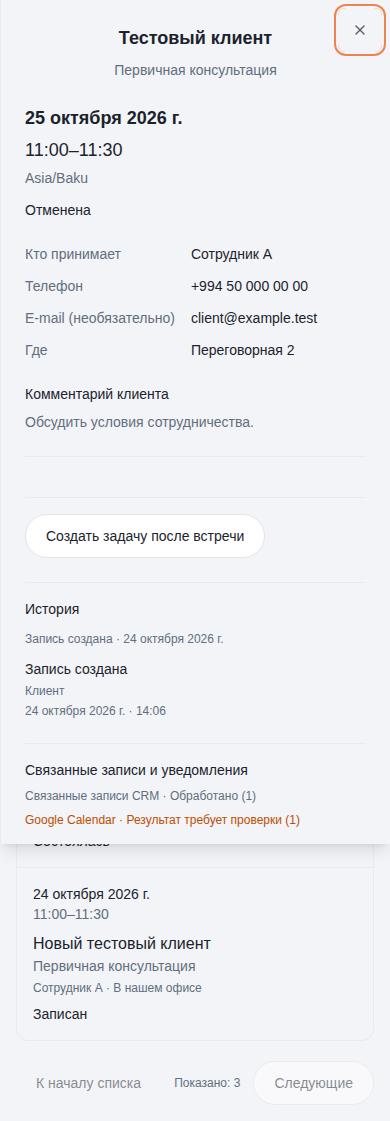
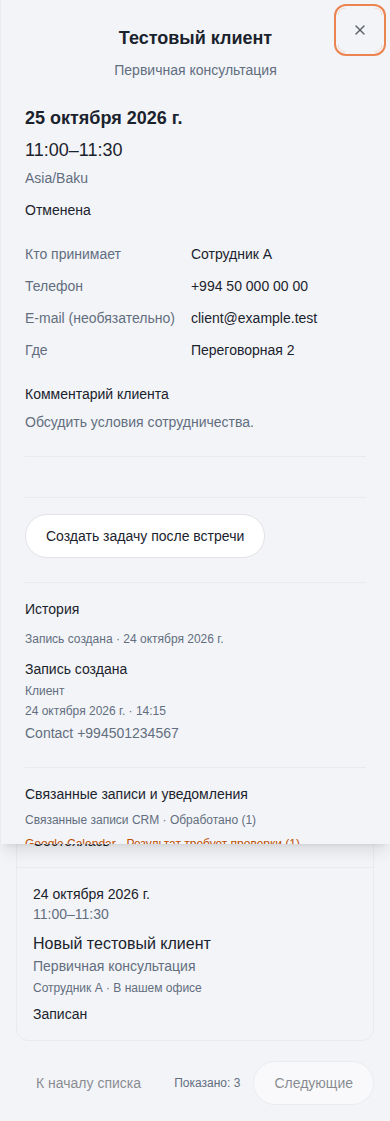
fix(booking): enforce event state and isolate replay and history access

Changed region(s): [[0.0615, 0.6244, 0.7692, 0.7493]]

diff --git a/src/__tests__/online-booking-postgres.test.ts b/src/__tests__/online-booking-postgres.test.ts
@@ -20,6 +20,7 @@
  * the deploy («Online booking database gate»), where
  * `ONLINE_BOOKING_DB_GATE=required` turns a missing URL into a failure.
  */
+import type { Prisma as GeneratedPrisma, PrismaClient } from "@prisma/client"
 import { randomUUID } from "node:crypto"
 import { spawnSync } from "node:child_process"
 import { createRequire } from "node:module"
@@ -92,16 +93,6 @@ function schemaWithoutEmbeddings(): string {
   return file
 }
 
-/** `db push` builds no CHECKs and no partial indexes; these are lifted from the migration. */
-function bookingConstraintsSql(): string {
-  const sql = readFileSync(path.join(ROOT, "prisma/migrations/20261101090000_online_booking/migration.sql"), "utf8")
-  const partial = sql.match(/CREATE UNIQUE INDEX "bookings_host_start_confirmed_key"[\s\S]*?;/)
-  if (!partial) throw new Error("partial unique index not found in the migration")
-  const checks = [...sql.matchAll(/CONSTRAINT "(bookings_\w+_check)" CHECK (\(.*\))/g)]
-  if (checks.length < 3) throw new Error("booking CHECKs not found in the migration")
-  return [partial[0], ...checks.map(([, name, body]) => `ALTER TABLE "bookings" ADD CONSTRAINT "${name}" CHECK ${body.replace(/,$/, "")};`)].join("\n")
-}
-
 function signIn(role: string, organizationId = ORG) {
   session.current = { user: { id: `user-${role}-${organizationId}`, organizationId, role, email: `${role}@example.com`, name: role } }
 }
@@ -119,8 +110,7 @@ const ALL_DAY = Object.fromEntries(["0", "1", "2", "3", "4", "5", "6"].map((day)
 const pgDescribe = scratch ? describe : describe.skip
 
 pgDescribe("online booking on a real Postgres", () => {
-  type Prisma = typeof import("@/lib/prisma").prisma
-  let prisma!: Prisma
+  let prisma!: PrismaClient
   let bypass!: typeof import("@/lib/rls-context").runWithRlsBypass
   let pageGet!: typeof import("@/app/api/v1/public/booking/[slug]/route").GET
   let pagePost!: typeof import("@/app/api/v1/public/booking/[slug]/route").POST
@@ -139,7 +129,12 @@ pgDescribe("online booking on a real Postgres", () => {
     prismaCli(["db", "execute", "--url", adminUrl!, "--stdin"], process.env, `DROP DATABASE IF EXISTS "${scratch!.name}" WITH (FORCE)`)
     prismaCli(["db", "execute", "--url", adminUrl!, "--stdin"], process.env, `CREATE DATABASE "${scratch!.name}"`)
     prismaCli(["db", "push", "--schema", schemaWithoutEmbeddings(), "--skip-generate", "--accept-data-loss"], { ...process.env, DATABASE_URL: scratch!.url })
-    prismaCli(["db", "execute", "--url", scratch!.url, "--stdin"], process.env, bookingConstraintsSql())
+    // Only in this newly created empty scratch DB: replace the booking subset
+    // with its original schema, then apply both actual forward migrations.
+    prismaCli(["db", "execute", "--url", scratch!.url, "--stdin"], process.env, `DROP TABLE IF EXISTS booking_change_notes, booking_integration_bindings, booking_secrets, booking_coordinator_grants, bookings, booking_pages CASCADE;`)
+    for (const migration of ["20261101090000_online_booking", "20261102090000_booking_workspace", "20261102100000_booking_commands"]) {
+      prismaCli(["db", "execute", "--url", scratch!.url, "--stdin"], process.env, readFileSync(path.join(ROOT, `prisma/migrations/${migration}/migration.sql`), "utf8"))
+    }
     // Run the actual canonical ledger DDL, including attempt/state/append-only guards.
     // These tables are dropped only in this newly created scratch database, before fixtures exist.
     const foundation = readFileSync(path.join(ROOT, "prisma/migrations/20260901090000_event_platform_foundation/migration.sql"), "utf8")
@@ -148,17 +143,8 @@ pgDescribe("online booking on a real Postgres", () => {
     prismaCli(["db", "execute", "--url", scratch!.url, "--stdin"], process.env, `DO $$ BEGIN IF NOT EXISTS (SELECT 1 FROM pg_roles WHERE rolname = 'leaddrive_effect_operator') THEN CREATE ROLE leaddrive_effect_operator NOLOGIN; END IF; END $$;`)
     prismaCli(["db", "execute", "--url", scratch!.url, "--stdin"], process.env, foundation)
     prismaCli(["db", "execute", "--url", scratch!.url, "--stdin"], process.env, `ALTER TABLE booking_change_notes ADD CONSTRAINT booking_notes_event_test_fkey FOREIGN KEY ("organizationId", "eventId") REFERENCES domain_events("organizationId", id) ON DELETE CASCADE;`)
-    const commandDdl = readFileSync(path.join(ROOT, "prisma/migrations/20261102100000_booking_commands/migration.sql"), "utf8")
-    const intervalGuard = commandDdl.match(/CREATE EXTENSION IF NOT EXISTS btree_gist;[\s\S]*?WHERE \(status = 'confirmed'\);/)![0]
-    const taskGuard = commandDdl.slice(commandDdl.indexOf("CREATE FUNCTION booking_managed_task_guard_fn"), commandDdl.lastIndexOf("COMMIT;"))
-    const policies = commandDdl.match(/DO \$policy\$[\s\S]*?\$policy\$;/)![0]
-    prismaCli(["db", "execute", "--url", scratch!.url, "--stdin"], process.env, intervalGuard + "\n" + taskGuard + "\n" + policies)
-    const bookingDdl = readFileSync(path.join(ROOT, "prisma/migrations/20261101090000_online_booking/migration.sql"), "utf8")
-    const grantDdl = readFileSync(path.join(ROOT, "prisma/migrations/20261102090000_booking_workspace/migration.sql"), "utf8")
-    prismaCli(["db", "execute", "--url", scratch!.url, "--stdin"], process.env, bookingDdl.slice(bookingDdl.indexOf('ALTER TABLE "booking_pages" ENABLE')) + "\n" + grantDdl.slice(grantDdl.indexOf('ALTER TABLE "booking_coordinator_grants" ENABLE'), grantDdl.indexOf('CREATE INDEX "bookings_org_start')))
-    prismaCli(["db", "execute", "--url", scratch!.url, "--stdin"], process.env, `ALTER TABLE bookings DROP CONSTRAINT bookings_status_check; ALTER TABLE bookings ADD CONSTRAINT bookings_status_check CHECK (status IN ('confirmed','cancelled','completed','no_show'));`)
 
-    prisma = (await import("@/lib/prisma")).prisma
+    prisma = (await import("@/lib/prisma")).prisma as PrismaClient
     bypass = (await import("@/lib/rls-context")).runWithRlsBypass
     const pub = await import("@/app/api/v1/public/booking/[slug]/route")
     pageGet = pub.GET
@@ -198,6 +184,14 @@ pgDescribe("online booking on a real Postgres", () => {
     mail.sent = []
     signIn("admin")
   })
+
+  async function legacyFixture<T>(write: (tx: GeneratedPrisma.TransactionClient) => Promise<T>): Promise<T> {
+    // Represent rows that already existed before the cutover, only in scratch.
+    return bypass(() => prisma.$transaction(async (tx: GeneratedPrisma.TransactionClient) => {
+      await tx.$executeRawUnsafe("SET LOCAL session_replication_role = 'replica'")
+      return write(tx)
+    }))
+  }
 
   async function newPage(over: Record<string, unknown> = {}) {
     const slug = `page-${++sequence}`
@@ -409,17 +403,17 @@ pgDescribe("online booking on a real Postgres", () => {
     const slug = await newPage()
     const page = await bypass(() => prisma.bookingPage.findUniqueOrThrow({ where: { slug } }))
     const start = new Date("2030-01-15T08:00:00Z")
-    await bypass(() => prisma.booking.createMany({ data: Array.from({ length: 211 }, (_, index) => ({
+    await legacyFixture((tx) => tx.booking.createMany({ data: Array.from({ length: 211 }, (_, index) => ({
       id: `pagination-${index.toString().padStart(4, "0")}`, organizationId: ORG, bookingPageId: page.id, hostUserId: HOST_A,
-      startsAt: start, endsAt: new Date(start.getTime() + 1800000), name: "Calendar pagination client", phone: "+994501000003", status: "cancelled", cancelTokenHash: randomUUID(),
+      startsAt: start, endsAt: new Date(start.getTime() + 1800000), name: "Calendar pagination client", phone: "+994501000003", status: "cancelled", cancelledAt: new Date(), cancelTokenHash: randomUUID(),
     })) }))
     const ids: string[] = []
     let cursor: string | null = null
     do {
-      const filter = new URLSearchParams({ page: page.id, limit: "100", ...(cursor ? { cursor } : {}) })
-      const response = await meetingsGet(json("GET", `/api/v1/bookings?${filter}`))
+      const filter: URLSearchParams = new URLSearchParams({ page: page.id, limit: "100", ...(cursor ? { cursor } : {}) })
+      const response: Response = await meetingsGet(json("GET", `/api/v1/bookings?${filter}`))
       expect(response.status).toBe(200)
-      const data = (await response.json()).data
+      const data: { items: { id: string }[]; nextCursor: string | null } = (await response.json()).data
       ids.push(...data.items.map((row: { id: string }) => row.id)); cursor = data.nextCursor
     } while (cursor)
     expect(ids).toHaveLength(211)
@@ -429,6 +423,42 @@ pgDescribe("online booking on a real Postgres", () => {
     const response = await calendarGet(json("GET", `/api/v1/bookings/calendar?${filter}`))
     expect(response.status).toBe(200)
     expect((await response.json()).data.days).toEqual([{ day: "2030-01-15", count: 211 }])
+  })
+
+  it("the database rejects old and direct writers that bypass canonical events", async () => {
+    const slug = await newPage()
+    const response = await book(slug, await someSlot(slug, 22))
+    const id = (await response.json()).data.id
+    await expect(bypass(() => prisma.booking.update({ where: { id }, data: { status: "no_show" } }))).rejects.toThrow()
+    await expect(bypass(() => prisma.booking.update({ where: { id }, data: { name: "Changed outside command" } }))).rejects.toThrow()
+    const original = await bypass(() => prisma.booking.findUniqueOrThrow({ where: { id } }))
+    expect(original.status).toBe("confirmed")
+    await expect(bypass(() => prisma.booking.create({ data: {
+      organizationId: ORG, bookingPageId: original.bookingPageId, hostUserId: HOST_A,
+      startsAt: new Date("2031-01-01T08:00Z"), endsAt: new Date("2031-01-01T08:30Z"),
+      name: "Old writer", phone: "+994501000005", cancelTokenHash: randomUUID(),
+    } }))).rejects.toThrow()
+  })
+
+  it("a manual create returns no customer capability and cannot replay after coordinator access is revoked", async () => {
+    const slug = await newPage({ hostIds: [HOST_B] })
+    const startsAt = await someSlot(slug, 15)
+    const page = await bypass(() => prisma.bookingPage.findUniqueOrThrow({ where: { slug } }))
+    await grantsPut(json("PUT", "/api/v1/bookings/coordinators", { coordinatorUserId: HOST_A, hostIds: [HOST_B], canManage: true }))
+    session.current = { user: { id: HOST_A, organizationId: ORG, role: "manager", email: "a@example.test", name: "Leyla" } }
+    const createPost = (await import("@/app/api/v1/bookings/route")).POST
+    const input = { pageId: page.id, startsAt, name: "Staff-created client", phone: "+994501000004", idempotencyKey: randomUUID(), recoverySecret: randomUUID() }
+    const response = await createPost(json("POST", "/api/v1/bookings", input))
+    expect(response.status, await response.clone().text()).toBe(201)
+    const data = (await response.json()).data
+    expect(data.cancelUrl).toBeUndefined()
+    expect(data.secretId).toBeUndefined()
+    const replay = await createPost(json("POST", "/api/v1/bookings", input))
+    expect((await replay.json()).data.id).toBe(data.id)
+    signIn("admin")
+    await grantsPut(json("PUT", "/api/v1/bookings/coordinators", { coordinatorUserId: HOST_A, hostIds: [], canManage: false }))
+    session.current = { user: { id: HOST_A, organizationId: ORG, role: "manager", email: "a@example.test", name: "Leyla" } }
+    expect((await createPost(json("POST", "/api/v1/bookings", input))).status).toBe(404)
   })
 
   it("own and explicit team scope apply to list, forged host filters, details and revoked grants", async () => {
@@ -499,7 +529,7 @@ pgDescribe("online booking on a real Postgres", () => {
     const task = await bypass(() => prisma.task.findUniqueOrThrow({ where: { id: after.taskId! } }))
     expect(task.assignedTo).toBe(HOST_B)
     expect(task.dueDate).toEqual(new Date(startsAt))
-    const legacy = await bypass(() => prisma.booking.create({ data: { organizationId: ORG, bookingPageId: before.bookingPageId, hostUserId: HOST_A, startsAt: new Date("2020-01-01T05:00:00Z"), endsAt: new Date("2020-01-01T05:30:00Z"), name: "Legacy client", phone: "+994501000002", cancelTokenHash: randomUUID() } }))
+    const legacy = await legacyFixture((tx) => tx.booking.create({ data: { organizationId: ORG, bookingPageId: before.bookingPageId, hostUserId: HOST_A, startsAt: new Date("2020-01-01T05:00:00Z"), endsAt: new Date("2020-01-01T05:30:00Z"), name: "Legacy client", phone: "+994501000002", cancelTokenHash: randomUUID() } }))
     const recorded = await actionsPost(json("POST", `/api/v1/bookings/${legacy.id}/actions`, { operation: "outcome", version: 0, outcome: "completed", note: "Synthetic meeting outcome", idempotencyKey: randomUUID() }), { params: Promise.resolve({ id: legacy.id }) })
     expect(recorded.status, await recorded.clone().text()).toBe(200)
     const actual = await bypass(() => prisma.booking.findUniqueOrThrow({ where: { id: legacy.id } }))

diff --git a/src/lib/booking/create.ts b/src/lib/booking/create.ts
@@ -1,7 +1,7 @@
 import { createHash, randomBytes, timingSafeEqual } from "node:crypto"
 import type { Prisma } from "@prisma/client"
 import { preloadTenantDataKeys } from "@/lib/crypto/tenant-data-keys"
-import { prisma } from "@/lib/prisma"
+import { bookingDb as prisma } from "./db"
 import { hashCanonicalJson } from "@/lib/event-platform/canonical-json"
 import { findCommandReceipt, storeCommandReceipt } from "@/lib/event-platform/command-receipt"
 import { encryptForTenantBound, decryptForTenantBound } from "@/lib/crypto/tenant-pii-encryption"
@@ -11,7 +11,7 @@ import { assertBookingInterval, bookingRules } from "./commands"
 import { BookingCommandError } from "./command-error"
 import { computeSlots, findSlot } from "./availability"
 import { activeHosts, orgContext, loadBusyByHost, bookingCancelUrl, hashBookingToken, type BookingInput, type CreateBookingResult } from "./book"
-import { bookingHostWhere } from "./access"
+import { bookingHostWhere, bookingScope } from "./access"
 import type { BookingAccess } from "./access"
 
 const digest = (value: string) => createHash("sha256").update(value).digest("hex")
@@ -27,6 +27,11 @@ export async function createStoredBooking(orgId: string, pageId: string, input: 
   async function replay(db: Prisma.TransactionClient | typeof prisma) {
     const receipt = await findCommandReceipt(db, identity)
     if (!receipt) return null
+    if (access) {
+      const storedId = (receipt.responseBody as { id?: unknown })?.id
+      const visible = typeof storedId === "string" ? await db.booking.findFirst({ where: { AND: [bookingScope(access, true), { id: storedId }] }, select: { hostUserId: true } }) : null
+      if (!visible || !access.administrator && visible.hostUserId !== access.userId && !await db.bookingCoordinatorGrant.findFirst({ where: { organizationId: orgId, coordinatorUserId: access.userId, hostUserId: visible.hostUserId, canManage: true }, select: { id: true } })) throw new BookingCommandError("NOT_FOUND", 404)
+    }
     const secret = await db.bookingSecret.findFirst({ where: { id: secretId, organizationId: orgId } })
     const supplied = Buffer.from(digest(input.recoverySecret!), "hex")
     const expected = Buffer.from(secret?.recoveryHash ?? "00".repeat(32), "hex")

diff --git a/src/lib/booking/queries.ts b/src/lib/booking/queries.ts
@@ -1,6 +1,6 @@
 import { z } from "zod"
 import { Prisma } from "@prisma/client"
-import { prisma } from "@/lib/prisma"
+import { bookingDb as prisma } from "./db"
 import { checkPermission, type Role } from "@/lib/permissions"
 import { organizationTimezone } from "@/lib/ticketing/customer-locale"
 import { isValidTimezone } from "@/lib/timezone"
@@ -82,7 +82,7 @@ export async function bookingDetail(access: BookingAccess, id: string, role: Rol
   ])
   const canManage = access.writableHostIds === null || access.writableHostIds.includes(row.hostUserId)
   const canCorrect = access.administrator || Boolean(await prisma.bookingCoordinatorGrant.findFirst({ where: { organizationId: access.orgId, coordinatorUserId: access.userId, hostUserId: row.hostUserId, canManage: true } }))
-  return { ...safe, canCreateFollowUp: canManage && checkPermission(role, "tasks", "write"), canManage, canCorrect, availableHosts, bookingPage: snapshotView(snapshot, row.bookingPage), legacyDetails: !snapshot, history: events.items, historyNextCursor: events.nextCursor, historyLimited: Boolean(events.nextCursor), integrations: effects.map((effect) => ({ type: effect.effectType, status: effect.status, requiresAttention: effect.lastError !== null, count: effect._count._all })), hostName: host?.name ?? null, hostActive: host?.isActive ?? false, calendarLinked: Boolean(googleEventId),
+  return { ...safe, phoneRestricted: access.phoneRestricted, canCreateFollowUp: canManage && checkPermission(role, "tasks", "write"), canManage, canCorrect, availableHosts, bookingPage: snapshotView(snapshot, row.bookingPage), legacyDetails: !snapshot, history: events.items, historyNextCursor: events.nextCursor, historyLimited: Boolean(events.nextCursor), integrations: effects.map((effect) => ({ type: effect.effectType, status: effect.status, requiresAttention: effect.lastError !== null, count: effect._count._all })), hostName: host?.name ?? null, hostActive: host?.isActive ?? false, calendarLinked: Boolean(googleEventId),
     leadId: checkPermission(role, "leads", "read") ? leadId : null,
     taskId: checkPermission(role, "tasks", "read") ? taskId : null,
   }

diff --git a/src/components/booking/booking-workspace.tsx b/src/components/booking/booking-workspace.tsx
@@ -23,6 +23,7 @@ export interface WorkspaceBooking {
   id: string
   version: number
   availableHosts?: { id: string; name: string }[]
+  phoneRestricted?: boolean
   canCreateFollowUp?: boolean
   canManage?: boolean
   canCorrect?: boolean
@@ -224,7 +225,7 @@ export function BookingWorkspace() {
         {detail.outcomeNote ? <section><h3 className="text-sm font-medium">{t("outcomeNote")}</h3><p className="mt-2 whitespace-pre-wrap break-words text-sm">{detail.outcomeNote}</p></section> : null}
         {detail.cancellationReason ? <p className="whitespace-pre-wrap break-words text-sm">{detail.cancellationReason}</p> : null}
         <BookingFollowUp key={detail.id} booking={detail} />
-        <BookingHistory booking={detail} timezone={detailTimezone} />
+        <BookingHistory booking={detail} timezone={detailTimezone} cacheScope={`${identity}:${Boolean(detail.phoneRestricted)}`} />
         <section className="space-y-2 border-t pt-4"><h3 className="text-sm font-medium">{t("deliveryTitle")}</h3>
           {detail.integrations?.length ? detail.integrations.map((item, index) => <p key={`${item.type}:${item.status}:${index}`} className={`text-xs ${item.requiresAttention || item.status === "reconciliation_required" || item.status === "definitely_failed" ? "text-amber-700 dark:text-amber-300" : "text-muted-foreground"}`}>{t(integrationLabel(item.type))} · {t(item.status === "succeeded" ? "deliveryApplied" : item.requiresAttention || ["reconciliation_required", "definitely_failed"].includes(item.status) ? "deliveryNeedsCheck" : "deliveryPending")} ({item.count})</p>) : <p className="text-xs text-muted-foreground">{t("calendarLinkState", { state: t(detail.calendarLinked ? "calendarLinked" : "calendarNotLinked") })}</p>}
         </section>

diff --git a/src/__tests__/booking-request-identity.test.ts b/src/__tests__/booking-request-identity.test.ts
@@ -1,7 +1,20 @@
 import { afterEach, describe, expect, it, vi } from "vitest"
-import { bookingRequestIdentity } from "@/lib/booking/client-identity"
+import { bookingRequestIdentity, completeBookingRequest } from "@/lib/booking/client-identity"
 afterEach(() => vi.unstubAllGlobals())
 describe("booking request identity", () => {
+  it("starts a fresh intent only after a confirmed success, including when storage is disabled", async () => {
+    const stored: Record<string, string> = {}
+    vi.stubGlobal("sessionStorage", { getItem: (key: string) => stored[key] ?? null, setItem: (key: string, value: string) => { stored[key] = value }, removeItem: (key: string) => { delete stored[key] } })
+    const first = await bookingRequestIdentity("completed-intent", { slot: "same" })
+    expect(await bookingRequestIdentity("completed-intent", { slot: "same" })).toEqual(first)
+    completeBookingRequest("completed-intent")
+    expect(stored).toEqual({})
+    expect(await bookingRequestIdentity("completed-intent", { slot: "same" })).not.toEqual(first)
+    vi.stubGlobal("sessionStorage", { getItem() { throw new Error("disabled") }, setItem() { throw new Error("disabled") }, removeItem() { throw new Error("disabled") } })
+    const privateFirst = await bookingRequestIdentity("private-completed", {})
+    completeBookingRequest("private-completed")
+    expect(await bookingRequestIdentity("private-completed", {})).not.toEqual(privateFirst)
+  })
   it("replays the same request even when browser storage is disabled", async () => {
     vi.stubGlobal("sessionStorage", { getItem() { throw new Error("private mode") }, setItem() { throw new Error("private mode") } })
     const input = { name: "Synthetic client", startsAt: "2026-11-02T05:30:00Z" }

diff --git a/src/app/api/v1/bookings/route.ts b/src/app/api/v1/bookings/route.ts
@@ -1,6 +1,7 @@
 import { NextRequest, NextResponse } from "next/server"
 import { withRlsAuth } from "@/lib/with-rls"
 import { bookingAccess } from "@/lib/booking/access"
+import { readAttribution } from "@/lib/ad-conversions/attribution"
 import { bookSchema } from "@/lib/booking/booking-input"
 import { z } from "zod"
 import { createStoredBooking } from "@/lib/booking/create"
@@ -30,9 +31,10 @@ export const POST = withRlsAuth("bookings", "write", async (req: NextRequest, au
   const parsed = createInput.safeParse(await req.json().catch(() => null))
   if (!parsed.success || parsed.data.website) return NextResponse.json({ code: "INVALID_INPUT" }, { status: 400 })
   try {
-    const result = await createStoredBooking(auth.orgId, parsed.data.pageId, parsed.data, new Date(), access)
+    const result = await createStoredBooking(auth.orgId, parsed.data.pageId, { ...parsed.data, attribution: readAttribution(parsed.data.attribution, { userAgent: req.headers.get("user-agent") }) }, new Date(), access)
     if (!result.ok) return NextResponse.json({ code: result.reason === "taken" ? "SLOT_TAKEN" : "NOT_FOUND" }, { status: result.reason === "taken" ? 409 : 404 })
-    return NextResponse.json({ success: true, data: result.booking }, { status: 201 })
+    const { id, startsAt, endsAt, hostName } = result.booking
+    return NextResponse.json({ success: true, data: { id, startsAt, endsAt, hostName } }, { status: 201 })
   } catch (error) {
     if (error instanceof BookingCommandError) return NextResponse.json({ code: error.code }, { status: error.status })
     if (error instanceof IdempotencyConflictError) return NextResponse.json({ code: "IDEMPOTENCY_CONFLICT" }, { status: 409 })

diff --git a/src/app/book/[slug]/page.tsx b/src/app/book/[slug]/page.tsx
@@ -8,7 +8,7 @@ import { CircleAlert, Loader2 } from "lucide-react"
 import { ThemeProvider } from "@/components/theme-provider"
 import { BookingScheduler, type BookResult, type BookingRequest, type PublicBookingPage } from "@/components/booking/booking-scheduler"
 import type { DaySlots } from "@/lib/booking/availability"
-import { bookingRequestIdentity } from "@/lib/booking/client-identity"
+import { bookingRequestIdentity, completeBookingRequest } from "@/lib/booking/client-identity"
 import { collectAdAttribution } from "@/lib/ad-conversions/collect"
 
 async function fetchBookingPage(slug: string): Promise<{ page: PublicBookingPage; days: DaySlots[] } | null> {
@@ -50,7 +50,7 @@ export default function PublicBookingPage() {
         body: JSON.stringify({ ...request, ...identity, locale, attribution: collectAdAttribution() }),
       })
       const body = await response.json().catch(() => ({}))
-      if (response.ok && body.success) return { ok: true, booking: body.data }
+      if (response.ok && body.success) { completeBookingRequest(`public:${slug}`); return { ok: true, booking: body.data } }
       if (body.code === "CALENDAR_UNAVAILABLE") return { ok: false, reason: "calendar" }
       if (body.code === "CONFIRMATION_EXPIRED") return { ok: false, reason: "expired" }
       if (response.status === 409 && !["IDEMPOTENCY_CONFLICT", "AVAILABILITY_CHANGED"].includes(body.code)) {

diff --git a/src/lib/booking/commands.ts b/src/lib/booking/commands.ts
@@ -1,6 +1,6 @@
 import type { Prisma } from "@prisma/client"
 import { z } from "zod"
-import { prisma } from "@/lib/prisma"
+import { bookingDb as prisma } from "./db"
 import { hashCanonicalJson } from "@/lib/event-platform/canonical-json"
 import { findCommandReceipt, storeCommandReceipt } from "@/lib/event-platform/command-receipt"
 import { organizationTimezone } from "@/lib/ticketing/customer-locale"
@@ -94,7 +94,7 @@ export async function runBookingCommand(access: BookingAccess, id: string, input
       if (!findSlot(computeSlots({ rules, hostIds: [hostId], busyByHost: new Map([[hostId, preflight.intervals]]), now }), input.startsAt)) throw new BookingCommandError("SLOT_TAKEN")
       const startsAt = new Date(input.startsAt), endsAt = new Date(startsAt.getTime() + currentPage.durationMinutes * 60_000)
       await assertBookingInterval(tx, access.orgId, hostId, startsAt, endsAt, currentPage.bufferMinutes, id)
-      change = { startsAt, endsAt, hostUserId: hostId, bufferBefore: currentPage.bufferMinutes, bufferAfter: currentPage.bufferMinutes }
+      change = { startsAt, endsAt, hostUser: { connect: { organizationId_id: { organizationId: access.orgId, id: hostId } } }, bufferBefore: currentPage.bufferMinutes, bufferAfter: currentPage.bufferMinutes }
       type = "rescheduled"
     }
     await ensureLegacyBinding(tx, row)

diff --git a/src/lib/booking/effect-worker.ts b/src/lib/booking/effect-worker.ts
@@ -1,7 +1,7 @@
 import { createHash, randomUUID } from "node:crypto"
 import type { Booking, EffectOutbox, Prisma } from "@prisma/client"
 import { preloadTenantDataKeys } from "@/lib/crypto/tenant-data-keys"
-import { prisma } from "@/lib/prisma"
+import { bookingDb as prisma } from "./db"
 import { runWithRlsBypass, runWithTenant } from "@/lib/rls-context"
 import { withJobLease } from "@/lib/cron/job-lease"
 import { createNotification, deliverNotificationPush } from "@/lib/notifications"
@@ -71,7 +71,7 @@ export async function drainBookingEffects(orgId: string, limit = 20, deadline = 
       if (!effect) return null
       const identity = effect.payload as { bookingId: string }
       await tx.$queryRaw`SELECT id FROM bookings WHERE "organizationId" = ${orgId} AND id = ${identity.bookingId} FOR UPDATE`
-      await tx.$queryRaw`SELECT id FROM effect_outbox WHERE "organizationId" = ${orgId} AND id = ${effect.id} FOR UPDATE`
+      await tx.$queryRaw`SELECT id FROM effect_outbox WHERE "organizationId" = ${orgId} AND id = ${effect.id}::uuid FOR UPDATE`
       const fresh = await tx.effectOutbox.findFirst({ where: { id: effect.id, organizationId: orgId } })
       if (!fresh || fresh.status !== effect.status || fresh.leaseToken !== effect.leaseToken) return { done: true as const }
       effect = fresh

diff --git a/src/components/booking/booking-history.tsx b/src/components/booking/booking-history.tsx
@@ -10,10 +10,10 @@ export interface BookingHistoryItem { id: string; type: string; when: string; ve
 interface HistoryPage { items: BookingHistoryItem[]; nextCursor: number | null }
 const LABELS: Record<string, string> = { "sales.booking-created.v1": "bookingCreated", "sales.booking-imported.v1": "historyImported", "sales.booking-rescheduled.v1": "historyRescheduled", "sales.booking-cancelled.v1": "meetingCancelled", "sales.booking-completed.v1": "meetingCompleted", "sales.booking-no-show.v1": "meetingNoShow", "sales.booking-outcome-corrected.v1": "historyCorrected" }
 
-export function BookingHistory({ booking, timezone }: { booking: WorkspaceBooking; timezone: string }) {
+export function BookingHistory({ booking, timezone, cacheScope }: { booking: WorkspaceBooking; timezone: string; cacheScope: string }) {
   const t = useTranslations("booking"), locale = useLocale()
   const history = useInfiniteQuery({
-    queryKey: ["booking-history", booking.id, booking.version],
+    queryKey: ["booking-history", cacheScope, booking.id, booking.version],
     initialPageParam: null as number | null,
     initialData: { pages: [{ items: booking.history ?? [], nextCursor: booking.historyNextCursor ?? null }], pageParams: [null] },
     queryFn: async ({ signal, pageParam }): Promise<HistoryPage> => {

diff --git a/src/app/api/v1/booking-pages/[id]/route.ts b/src/app/api/v1/booking-pages/[id]/route.ts
@@ -1,6 +1,7 @@
 /** Update one booking page. Bookings already made keep their time and host. */
+import type { Prisma } from "@prisma/client"
 import { NextRequest, NextResponse } from "next/server"
-import { prisma } from "@/lib/prisma"
+import { bookingDb as prisma } from "@/lib/booking/db"
 import { withRlsAuth } from "@/lib/with-rls"
 import { bookingAccess, bookingHostWhere } from "@/lib/booking/access"
 import { bookingPageSchema, slugTaken } from "@/lib/booking/page-input"
@@ -21,7 +22,7 @@ export const PATCH = withRlsAuth("bookings", "write", async (req: NextRequest, a
   try {
     await prisma.$transaction(async (tx) => {
       await tx.$executeRaw`SELECT pg_advisory_xact_lock(hashtext(${`booking-page:${auth.orgId}:${id}`}))`
-      await tx.bookingPage.updateMany({ where: { id, organizationId: auth.orgId }, data: { ...input, version: { increment: 1 } } })
+      await tx.bookingPage.updateMany({ where: { id, organizationId: auth.orgId }, data: { ...input, weekly: input.weekly as unknown as Prisma.InputJsonValue, version: { increment: 1 } } })
     })
   } catch (error) {
     if ((error as { code?: string })?.code === "P2002") return NextResponse.json({ error: "Slug taken", code: "SLUG_TAKEN" }, { status: 409 })

diff --git a/src/components/booking/booking-create-panel.tsx b/src/components/booking/booking-create-panel.tsx
@@ -7,7 +7,7 @@ import { Input } from "@/components/ui/input"
 import { Label } from "@/components/ui/label"
 import { BookingScheduler, type BookResult, type BookingRequest, type PublicBookingPage } from "./booking-scheduler"
 import { BOOKING_ERROR_KEYS } from "./booking-meeting-actions"
-import { bookingRequestIdentity } from "@/lib/booking/client-identity"
+import { bookingRequestIdentity, completeBookingRequest } from "@/lib/booking/client-identity"
 import { dateInputValueInTimezone } from "@/lib/timezone"
 import type { DaySlots } from "@/lib/booking/availability"
 
@@ -37,6 +37,7 @@ export function BookingCreatePanel({ pages, hosts, timezone, onSaved }: { pages:
         if (body.code === "SLOT_TAKEN") { void available.refetch(); return { ok: false, reason: "taken" } }
         return { ok: false, reason: response.status === 400 ? "invalid" : "error" }
       }
+      completeBookingRequest(`staff-create:${pageId}`)
       onSaved(body.data.id)
       return { ok: true, booking: body.data }
     } catch { setError(t("commandUnconfirmed")); return { ok: false, reason: "error" } }
